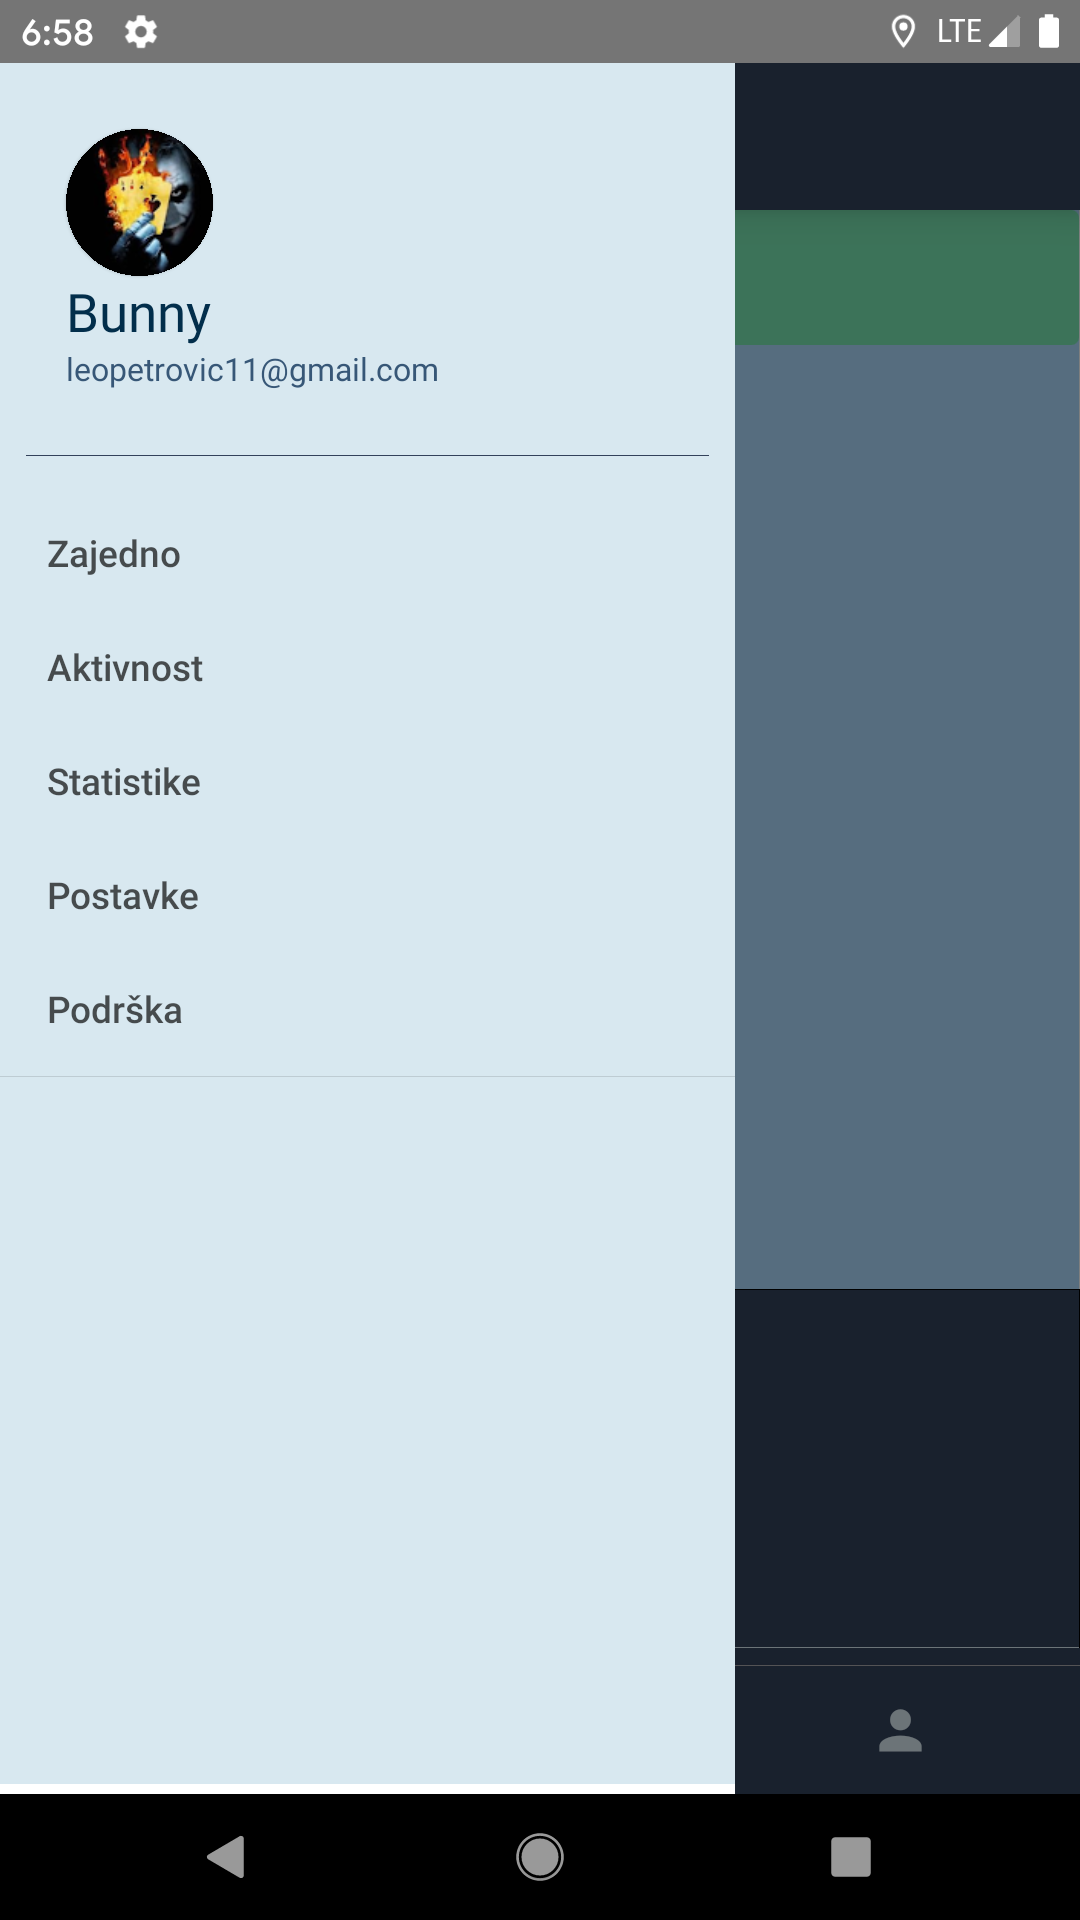
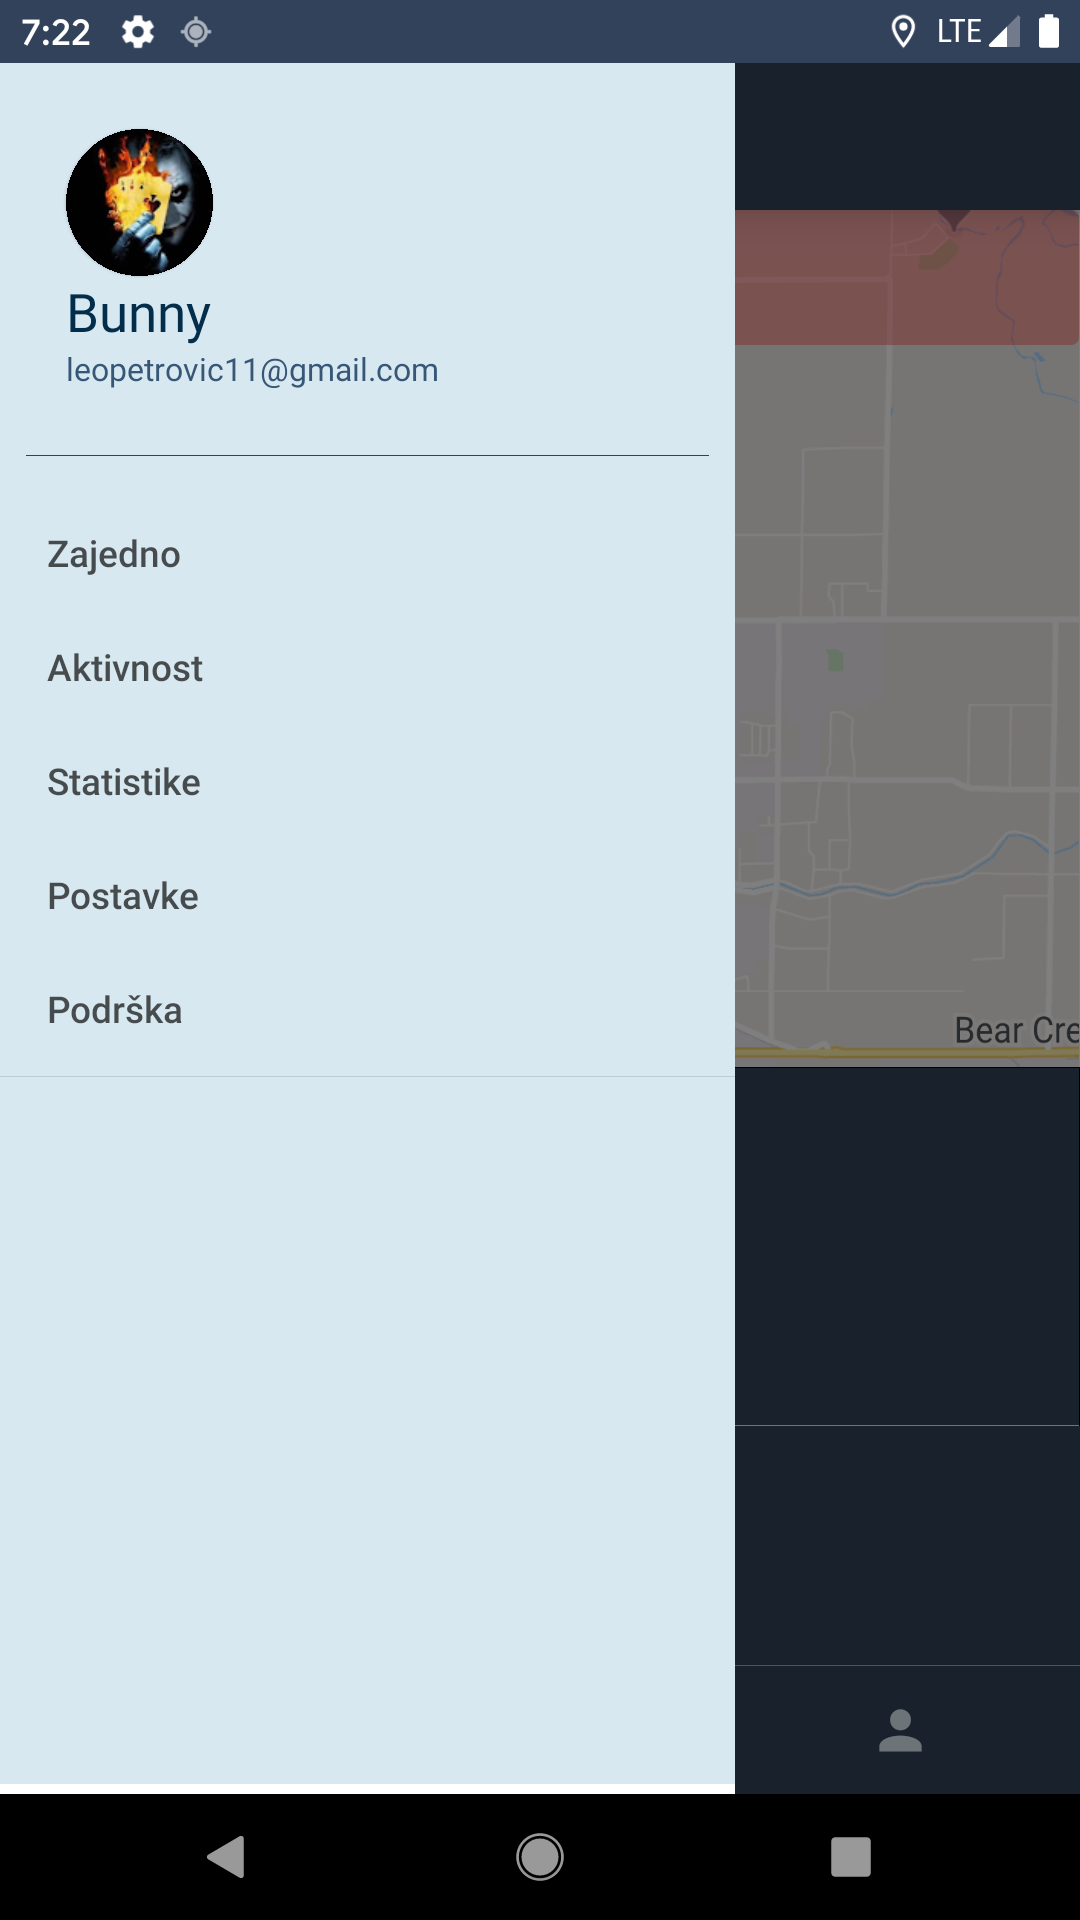
Fixed small bug in distance calc, changed screenshots

Changed region(s): [[0.6722, 0.0938, 1.0, 0.6875], [0.0, 0.0, 1.0, 0.0312]]

diff --git a/src/screens/Main/RunningScreen.js b/src/screens/Main/RunningScreen.js
@@ -60,7 +60,7 @@ export default class RunningScreen extends Component {
   
       return R * c;
     }
-    return haversine(this.state.position.startingCoords, newLatLng, { unit: this.state.userData.unit === "imperial" ? "mile" : "km" }) || 0;
+    return haversine(this.state.position.startingCoords, newLatLng, { unit: this.state.userData && this.state.userData.unit === "imperial" ? "mile" : "km" }) || 0;
   };
 
   requestLocationPermission = () => new Promise(async (resolve, reject) => {
@@ -110,6 +110,12 @@ export default class RunningScreen extends Component {
   }
 
   componentDidMount() {
+    this.unsubscribe = auth().onAuthStateChanged(async user => {
+      if (user && user.providerId === "firebase") {
+        let doc = await firestore().collection("users").doc(user.uid).get();
+        if (doc.exists) this.setState({ userData: doc.data() }, () => this.getCalories());
+      }
+    });
     BackgroundGeolocation.configure({
       desiredAccuracy: BackgroundGeolocation.HIGH_ACCURACY,
       debug: false,
@@ -146,12 +152,6 @@ export default class RunningScreen extends Component {
         }, 500);
         this.state.userData && this.state.isRunning && this.getCalories();
       });
-    });
-    this.unsubscribe = auth().onAuthStateChanged(async user => {
-      if (user && user.providerId === "firebase") {
-        let doc = await firestore().collection("users").doc(user.uid).get();
-        if (doc.exists) this.setState({ userData: doc.data() }, () => this.getCalories());
-      }
     });
     this.requestLocationPermission();
   }

diff --git a/src/App.js b/src/App.js
@@ -7,7 +7,7 @@
  */
 
 import React from "react";
-import { Text } from "react-native";
+import { Text, StatusBar } from "react-native";
 import AsyncStorage from "@react-native-community/async-storage";
 
 import { createAppContainer, createSwitchNavigator } from "react-navigation";
@@ -167,7 +167,10 @@ export default class App extends React.Component {
 
   render() {
     return (
-      <AppContainer screenProps={{ languages: this.state.languages, currentLang: this.state.currentLang, changeLanguage: this.changeLanguage }} />
+      <>
+        <StatusBar backgroundColor={colors.dark} barStyle="light-content" />
+        <AppContainer screenProps={{ languages: this.state.languages, currentLang: this.state.currentLang, changeLanguage: this.changeLanguage }} />
+      </>
     )
   }
 }
